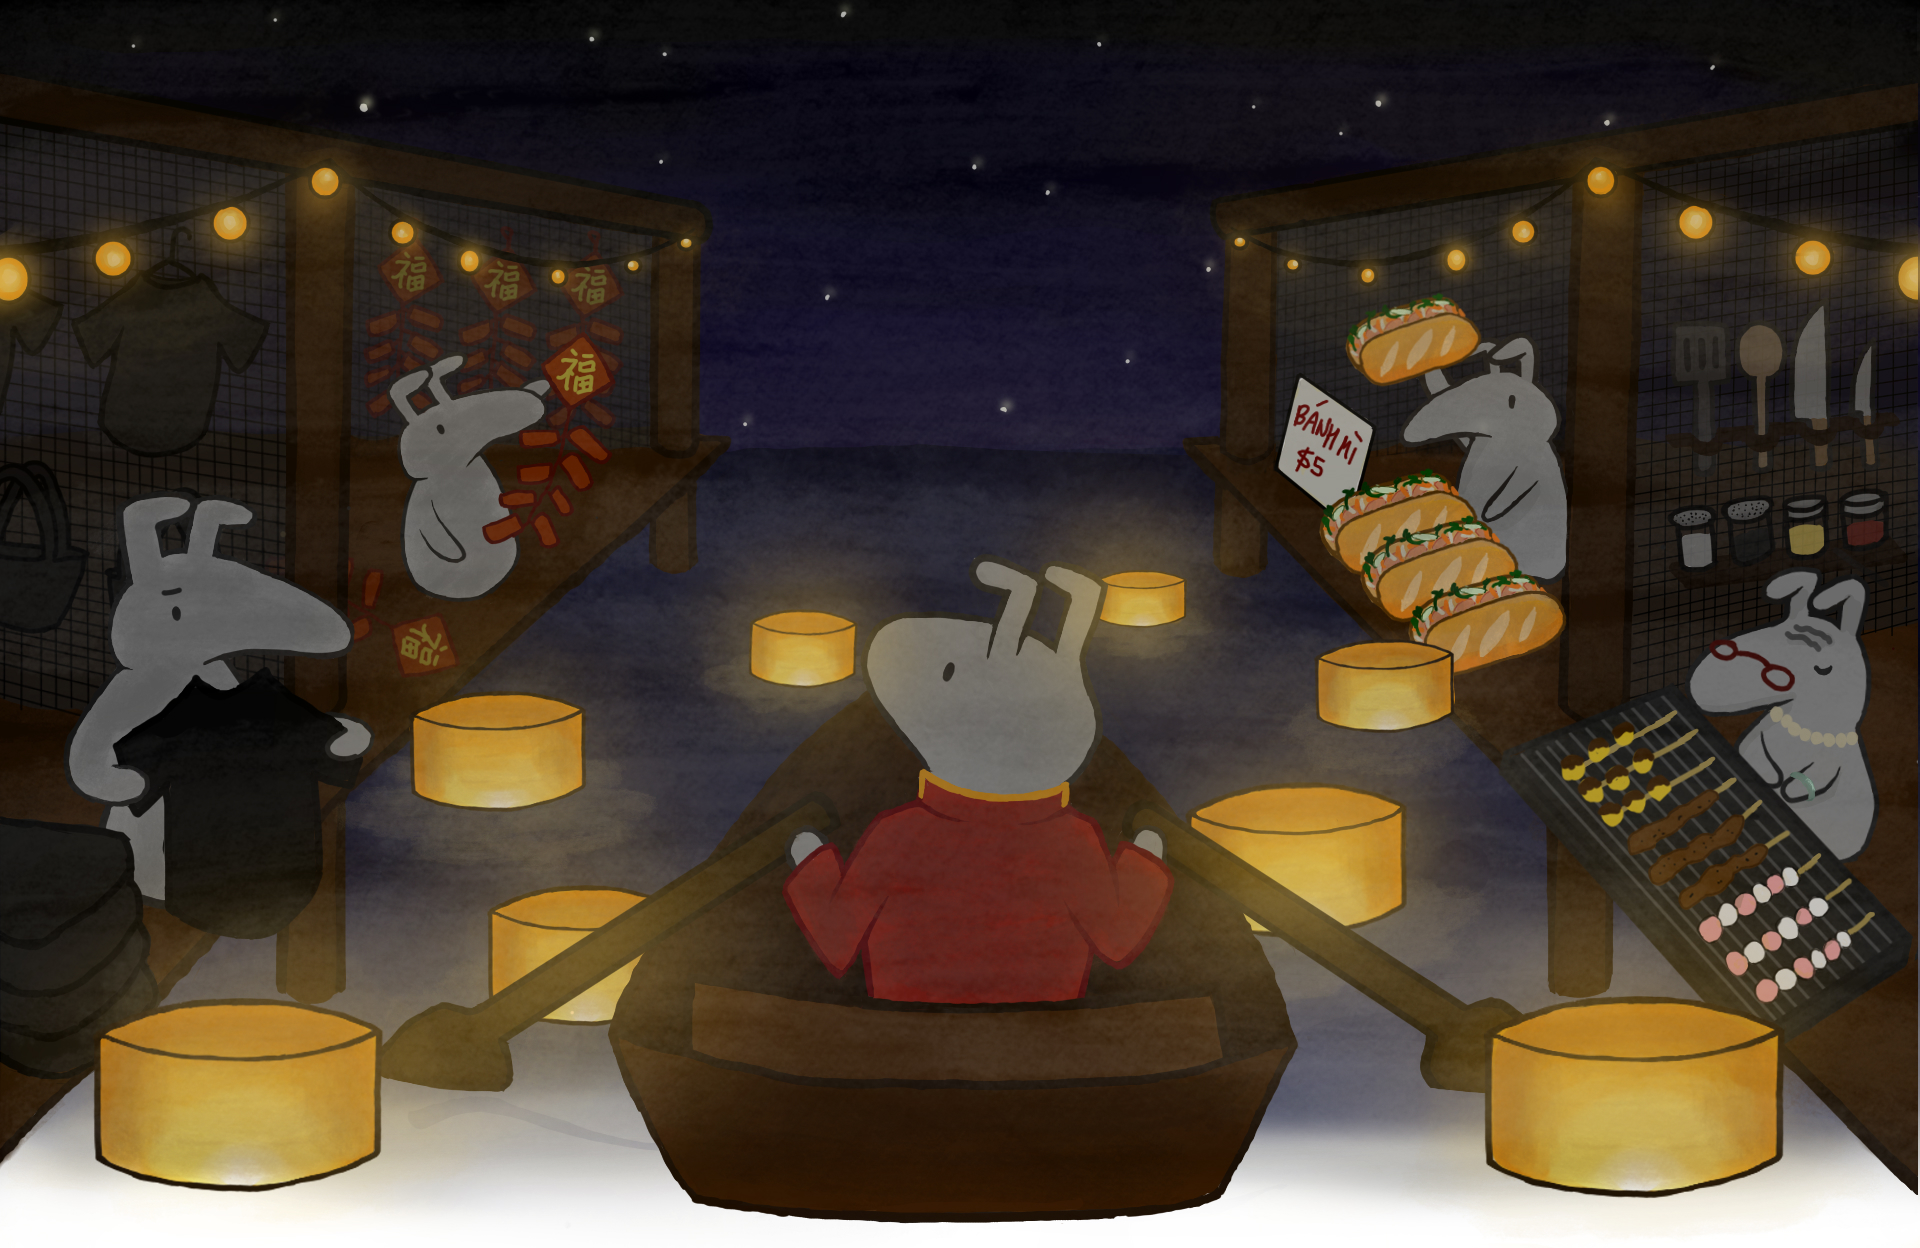
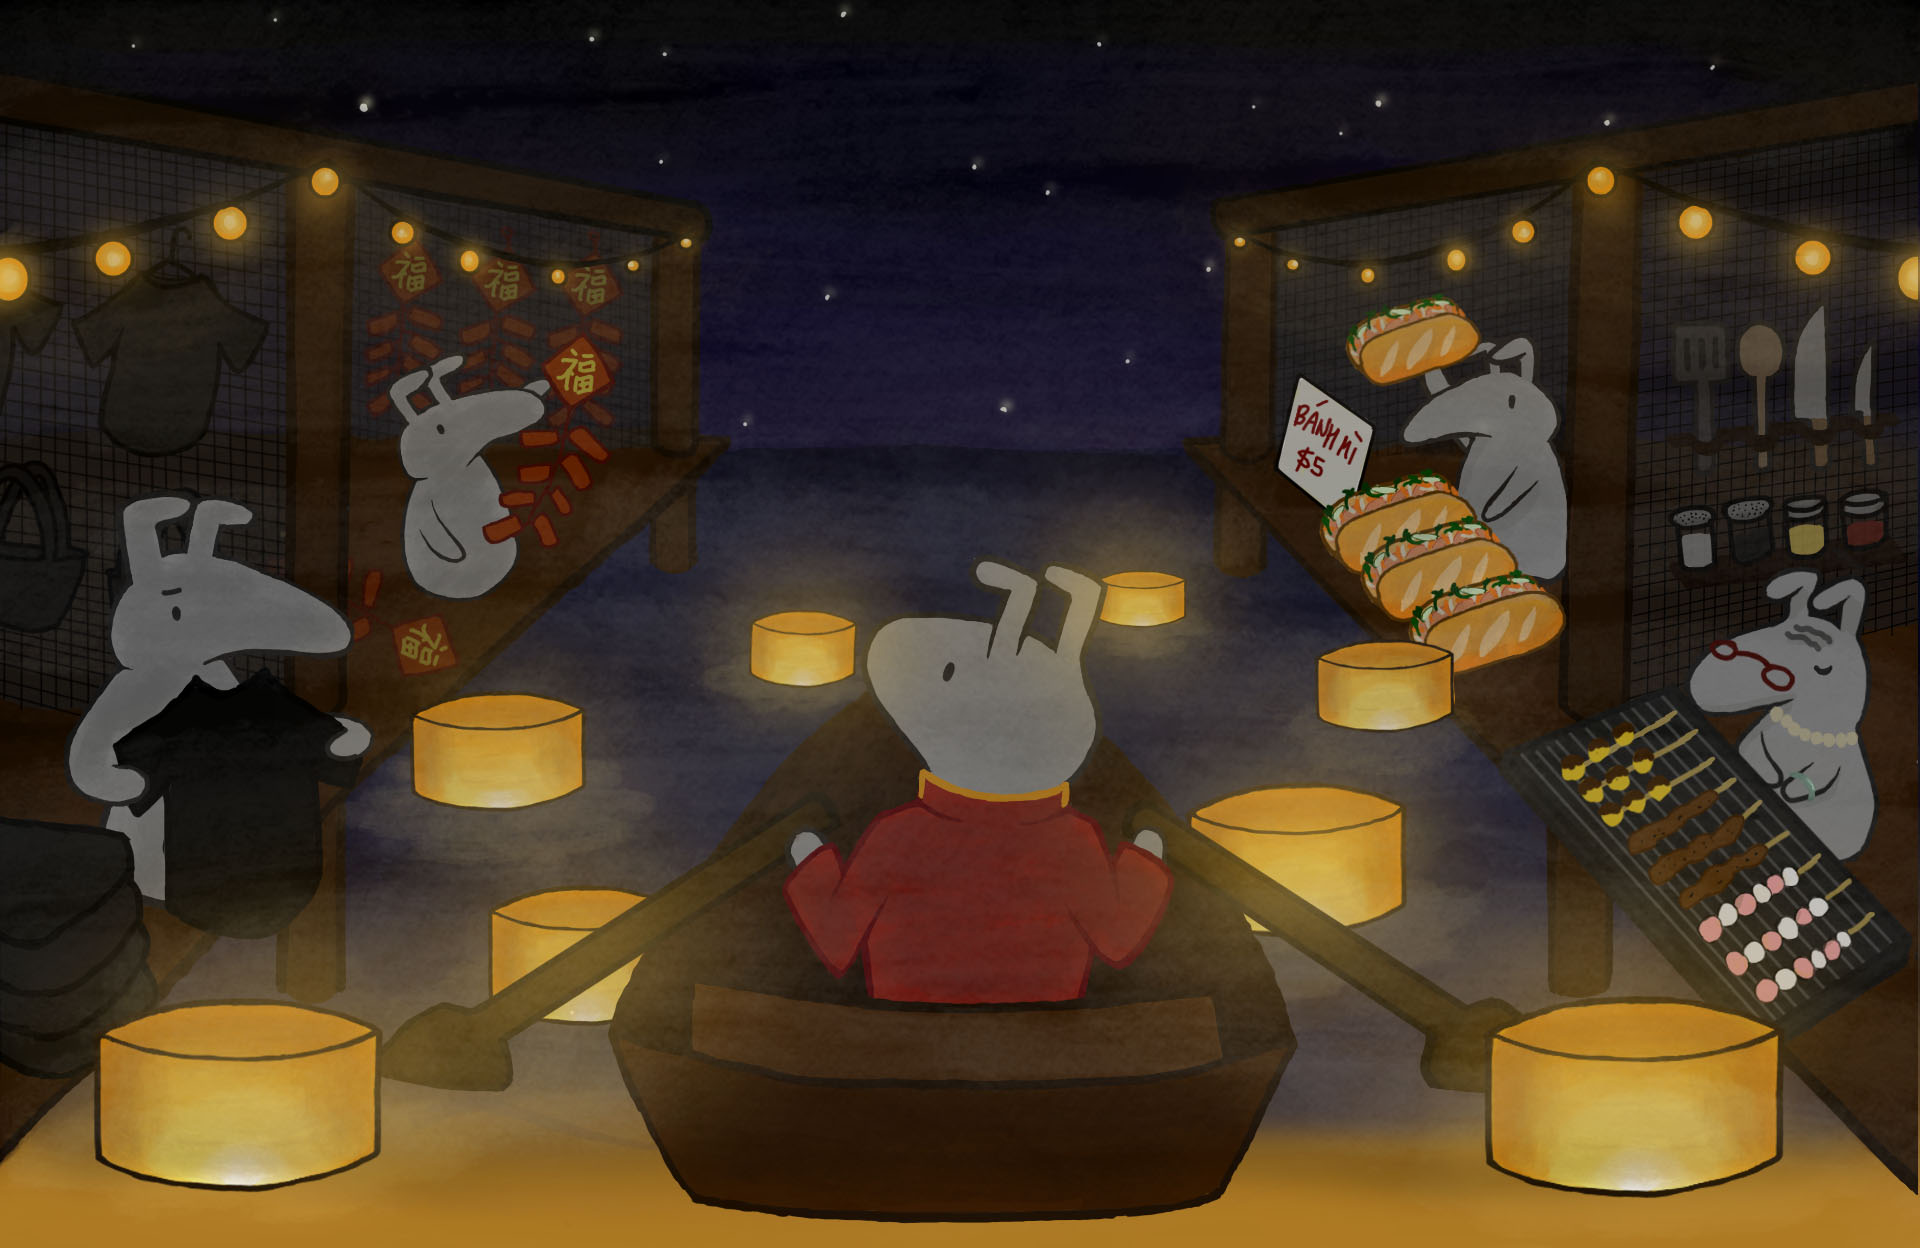
fix: restore missing transparent section of background art (#37)
* fix: restore landing background png

* Use separate mask for landing background

- To reduce asset size, compress the background JPEG and use a
  separate smaller transparent PNG as a `mask-image`
- This will become irrelevant once the layers are separated for a
  dynamic floating design

* fix: background and mask position to center bottom

---------

Changed region(s): [[0.0, 0.7812, 1.0, 1.0], [0.75, 0.75, 0.9062, 0.8125], [0.0938, 0.75, 0.125, 0.8125]]

diff --git a/apps/site/src/app/(home)/sections/Landing/Landing.tsx b/apps/site/src/app/(home)/sections/Landing/Landing.tsx
@@ -8,7 +8,6 @@ import { View } from "@/components/canvas/View";
 import Button from "@/lib/components/Button/Button";
 import Fireflies from "../../components/Fireflies";
 
-import landingBackground from "@/assets/backgrounds/landing-background.jpg";
 import fogLeft from "@/assets/images/fog-left.png";
 import fogRight from "@/assets/images/fog-right.png";
 
@@ -16,12 +15,7 @@ import styles from "./Landing.module.css";
 
 const Landing = () => {
 	return (
-		<section
-			style={{
-				backgroundImage: `url(${landingBackground.src})`,
-			}}
-			className="bg-cover bg-no-repeat bg-center"
-		>
+		<section className={styles.landingBackground}>
 			<View className="absolute w-full h-full">
 				<Suspense fallback={null}>
 					<Fireflies />

diff --git a/apps/site/src/app/(home)/sections/Landing/Landing.module.css b/apps/site/src/app/(home)/sections/Landing/Landing.module.css
@@ -1,6 +1,17 @@
+.landingBackground {
+	background-image: url("~@/assets/backgrounds/landing-background.jpg");
+	background-position: center bottom;
+	background-repeat: no-repeat;
+	background-size: cover;
+	mask-image: url("~@/assets/backgrounds/landing-background-mask.png");
+	mask-position: center bottom;
+	mask-repeat: no-repeat;
+	mask-size: cover;
+}
+
 .fogLeft,
 .fogRight {
-	animation-delay: 1.5s;
+	animation-delay: 2s;
 	animation-duration: 4s;
 	animation-fill-mode: forwards;
 	animation-timing-function: ease;
